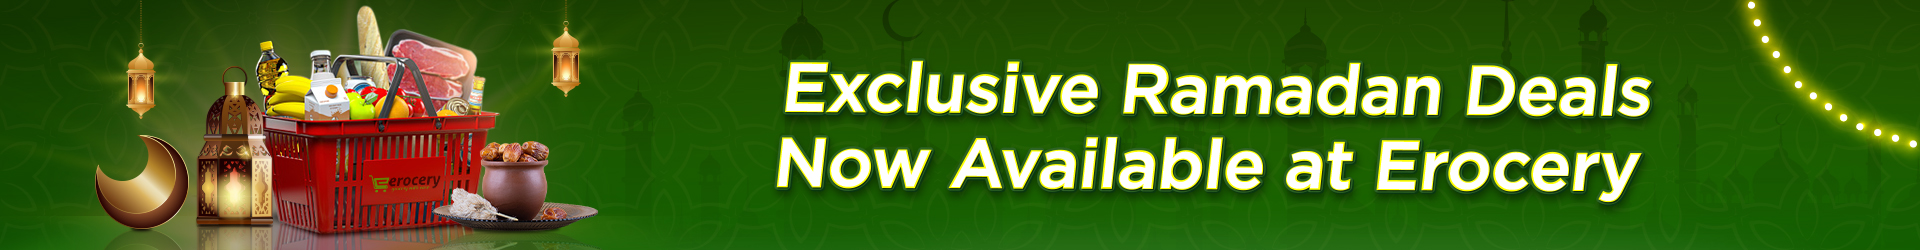
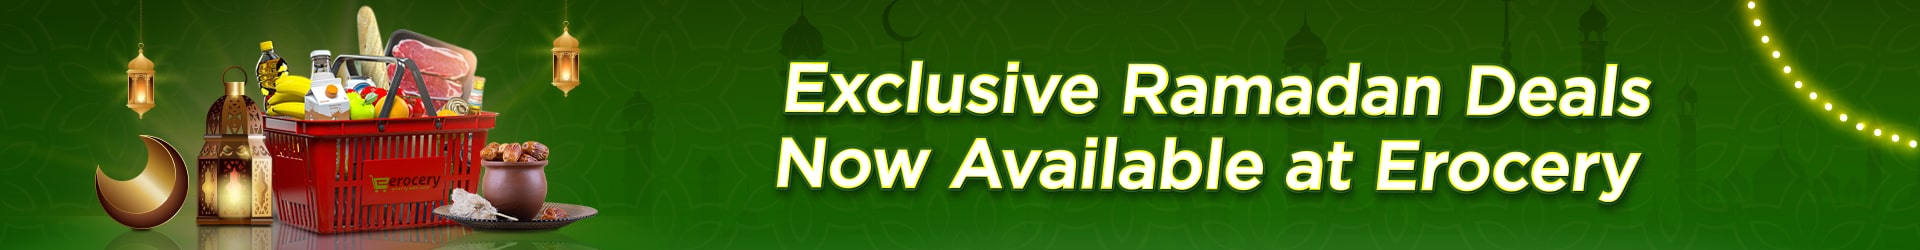
offerBanner optimized image added + extra images deleted

diff --git a/src/views/Home/Page.tsx b/src/views/Home/Page.tsx
@@ -26,16 +26,10 @@ import {
 
 import { structuredData } from "../../core/SEO/Homepage/structuredData";
 
-// import catNoImg from "../../images/catNoImg.jpg";
-// import bannerimg from "../../images/homeBanner.jpg";
 // import androidStoreImage from "../../images/playstore.png";
 
 // import appleStoreImage from "../../images/applestore.png";
 
-// import banner1 from "../../images/banner1.jpg";
-// import banner2 from "../../images/banner2.jpg";
-// import banner3 from "../../images/banner3.jpg";
-// import banner4 from "../../images/banner4.jpg";
 // import desktopvipoffer from "../../images/desktopoffer.png";
 import offerImg from "../../images/offerBanner.jpg";
 // import vipoffermob from "../../images/vipoffermob.png";
@@ -55,24 +49,6 @@ const Page: React.FC<{
   const categoriesExist = () => {
     return categories && categories.edges && categories.edges.length > 0;
   };
-  // const imagesArray = [
-  //   {
-  //     name: "banner1",
-  //     url: banner1,
-  //   },
-  //   {
-  //     name: "banner2",
-  //     url: banner2,
-  //   },
-  //   {
-  //     name: "banner3",
-  //     url: banner3,
-  //   },
-  //   {
-  //     name: "banner4",
-  //     url: banner4,
-  //   },
-  // ];
 
   const qurbaniPath = { id: "", name: "" };
   return (
@@ -111,8 +87,6 @@ const Page: React.FC<{
                 );
               }}
             >
-              {/* {imagesArray.map(image => (
-            <> */}
               {data.shop.banners &&
                 data.shop.banners.map(url => <img src={url.image} alt={url.alt} />)}
               {/* <div
